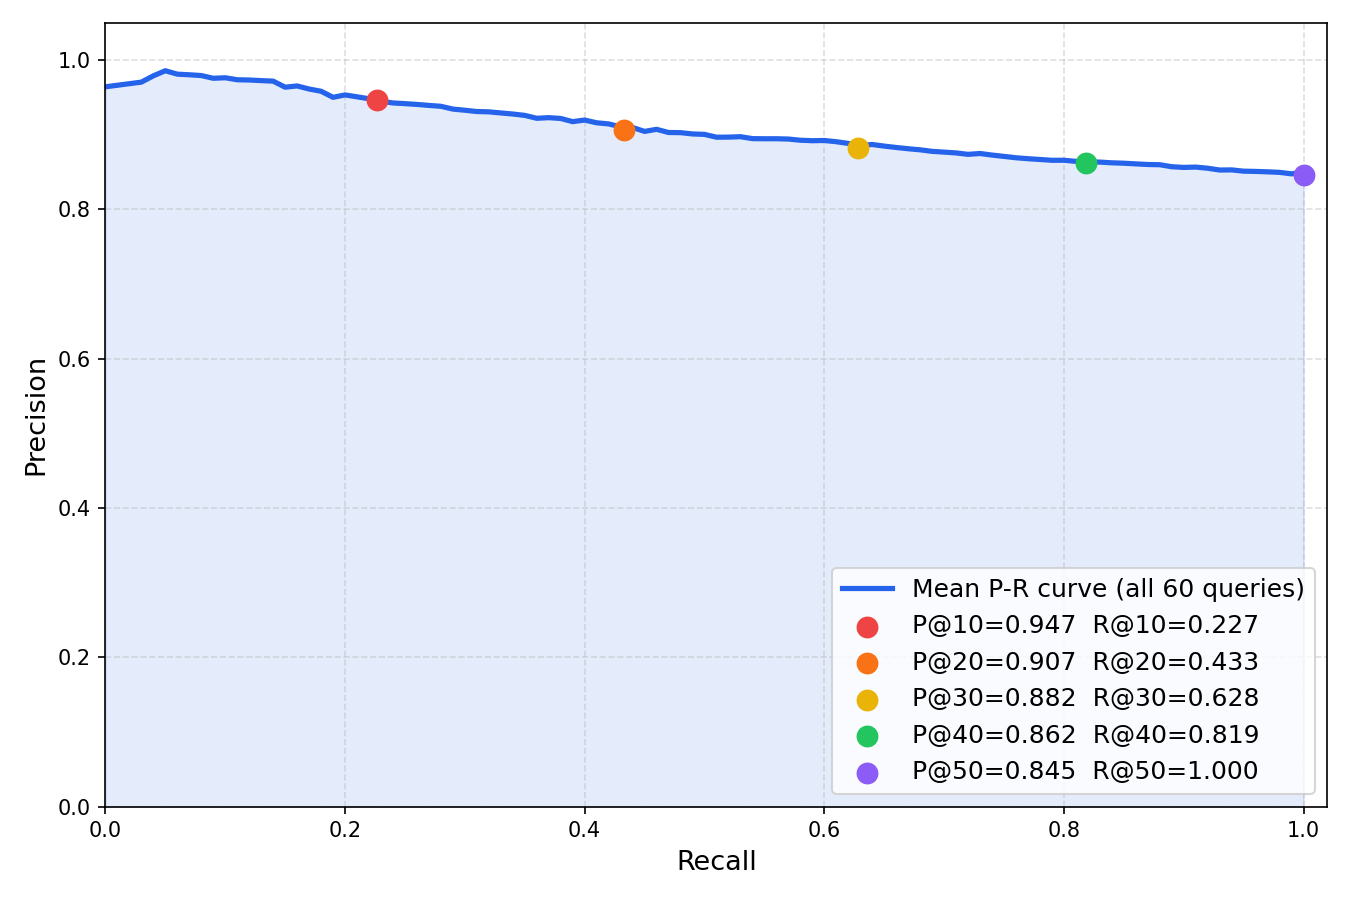
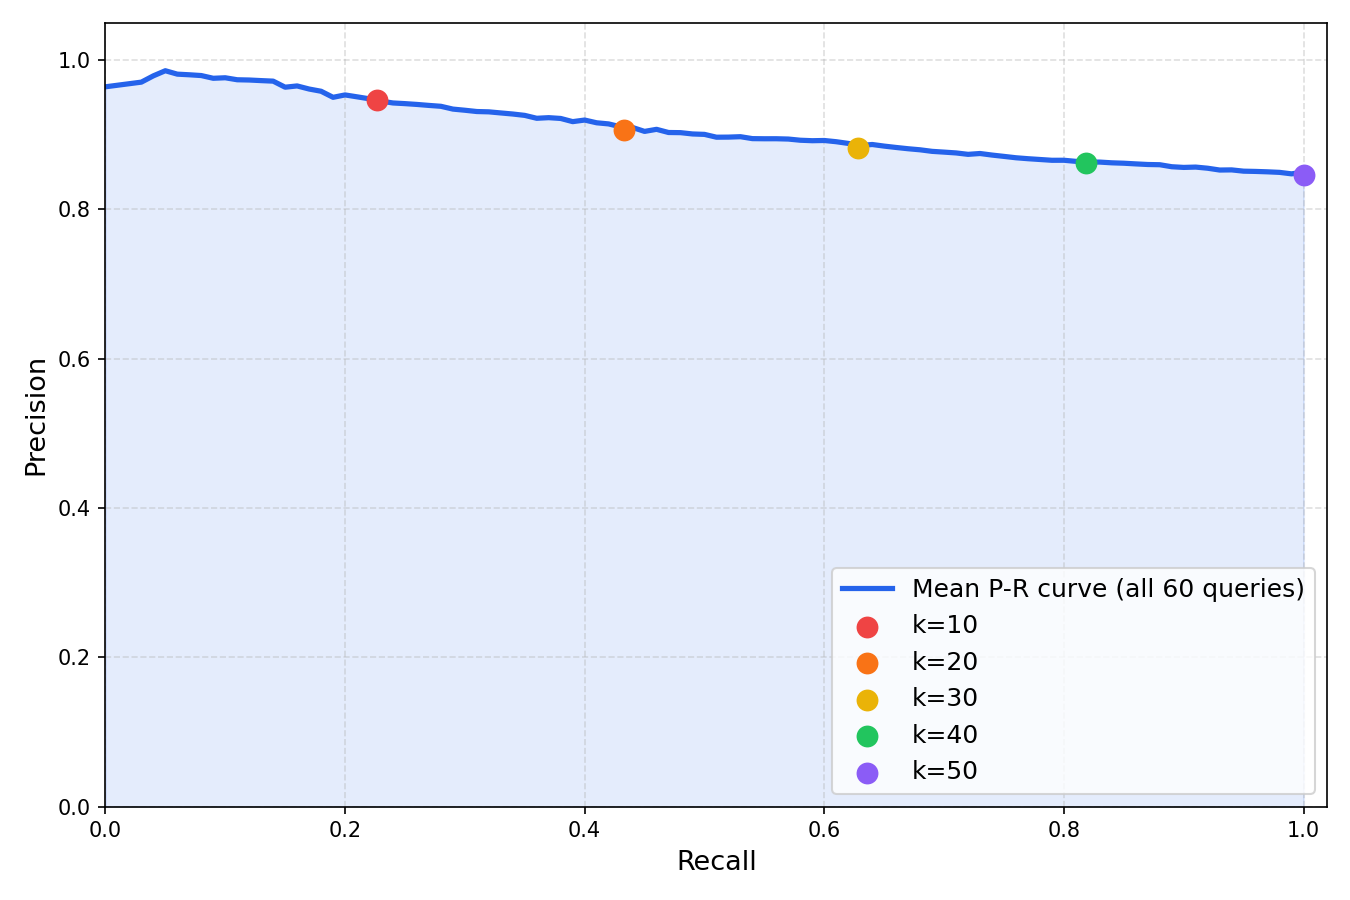
feat: simplify precision-recall plot labels and update curve images

Changed region(s): [[0.6844, 0.6844, 0.9333, 0.8711]]

diff --git a/evaluation/evaluate_metrics.py b/evaluation/evaluate_metrics.py
@@ -277,14 +277,7 @@ def plot_avg_precision_recall(
     for k, color in zip(K_VALUES, colors):
         r_k = pr_results["averaged"][k]["recall"]
         p_k = pr_results["averaged"][k]["precision"]
-        ax.scatter(
-            r_k,
-            p_k,
-            color=color,
-            s=90,
-            zorder=5,
-            label=f"P@{k}={p_k:.3f}  R@{k}={r_k:.3f}",
-        )
+        ax.scatter(r_k, p_k, color=color, s=90, zorder=5, label=f"k={k}")
 
     ax.set_xlabel("Recall", fontsize=13)
     ax.set_ylabel("Precision", fontsize=13)

diff --git a/evaluation/evaluate_highlights.py b/evaluation/evaluate_highlights.py
@@ -577,14 +577,7 @@ def plot_avg_precision_recall(
     for k, color in zip(K_VALUES, colors):
         r_k = results["averaged"][k]["recall"]
         p_k = results["averaged"][k]["precision"]
-        ax.scatter(
-            r_k,
-            p_k,
-            color=color,
-            s=90,
-            zorder=5,
-            label=f"P@{k}={p_k:.3f}  R@{k}={r_k:.3f}",
-        )
+        ax.scatter(r_k, p_k, color=color, s=90, zorder=5, label=f"k={k}")
 
     ax.set_xlabel("Recall", fontsize=13)
     ax.set_ylabel("Precision", fontsize=13)
